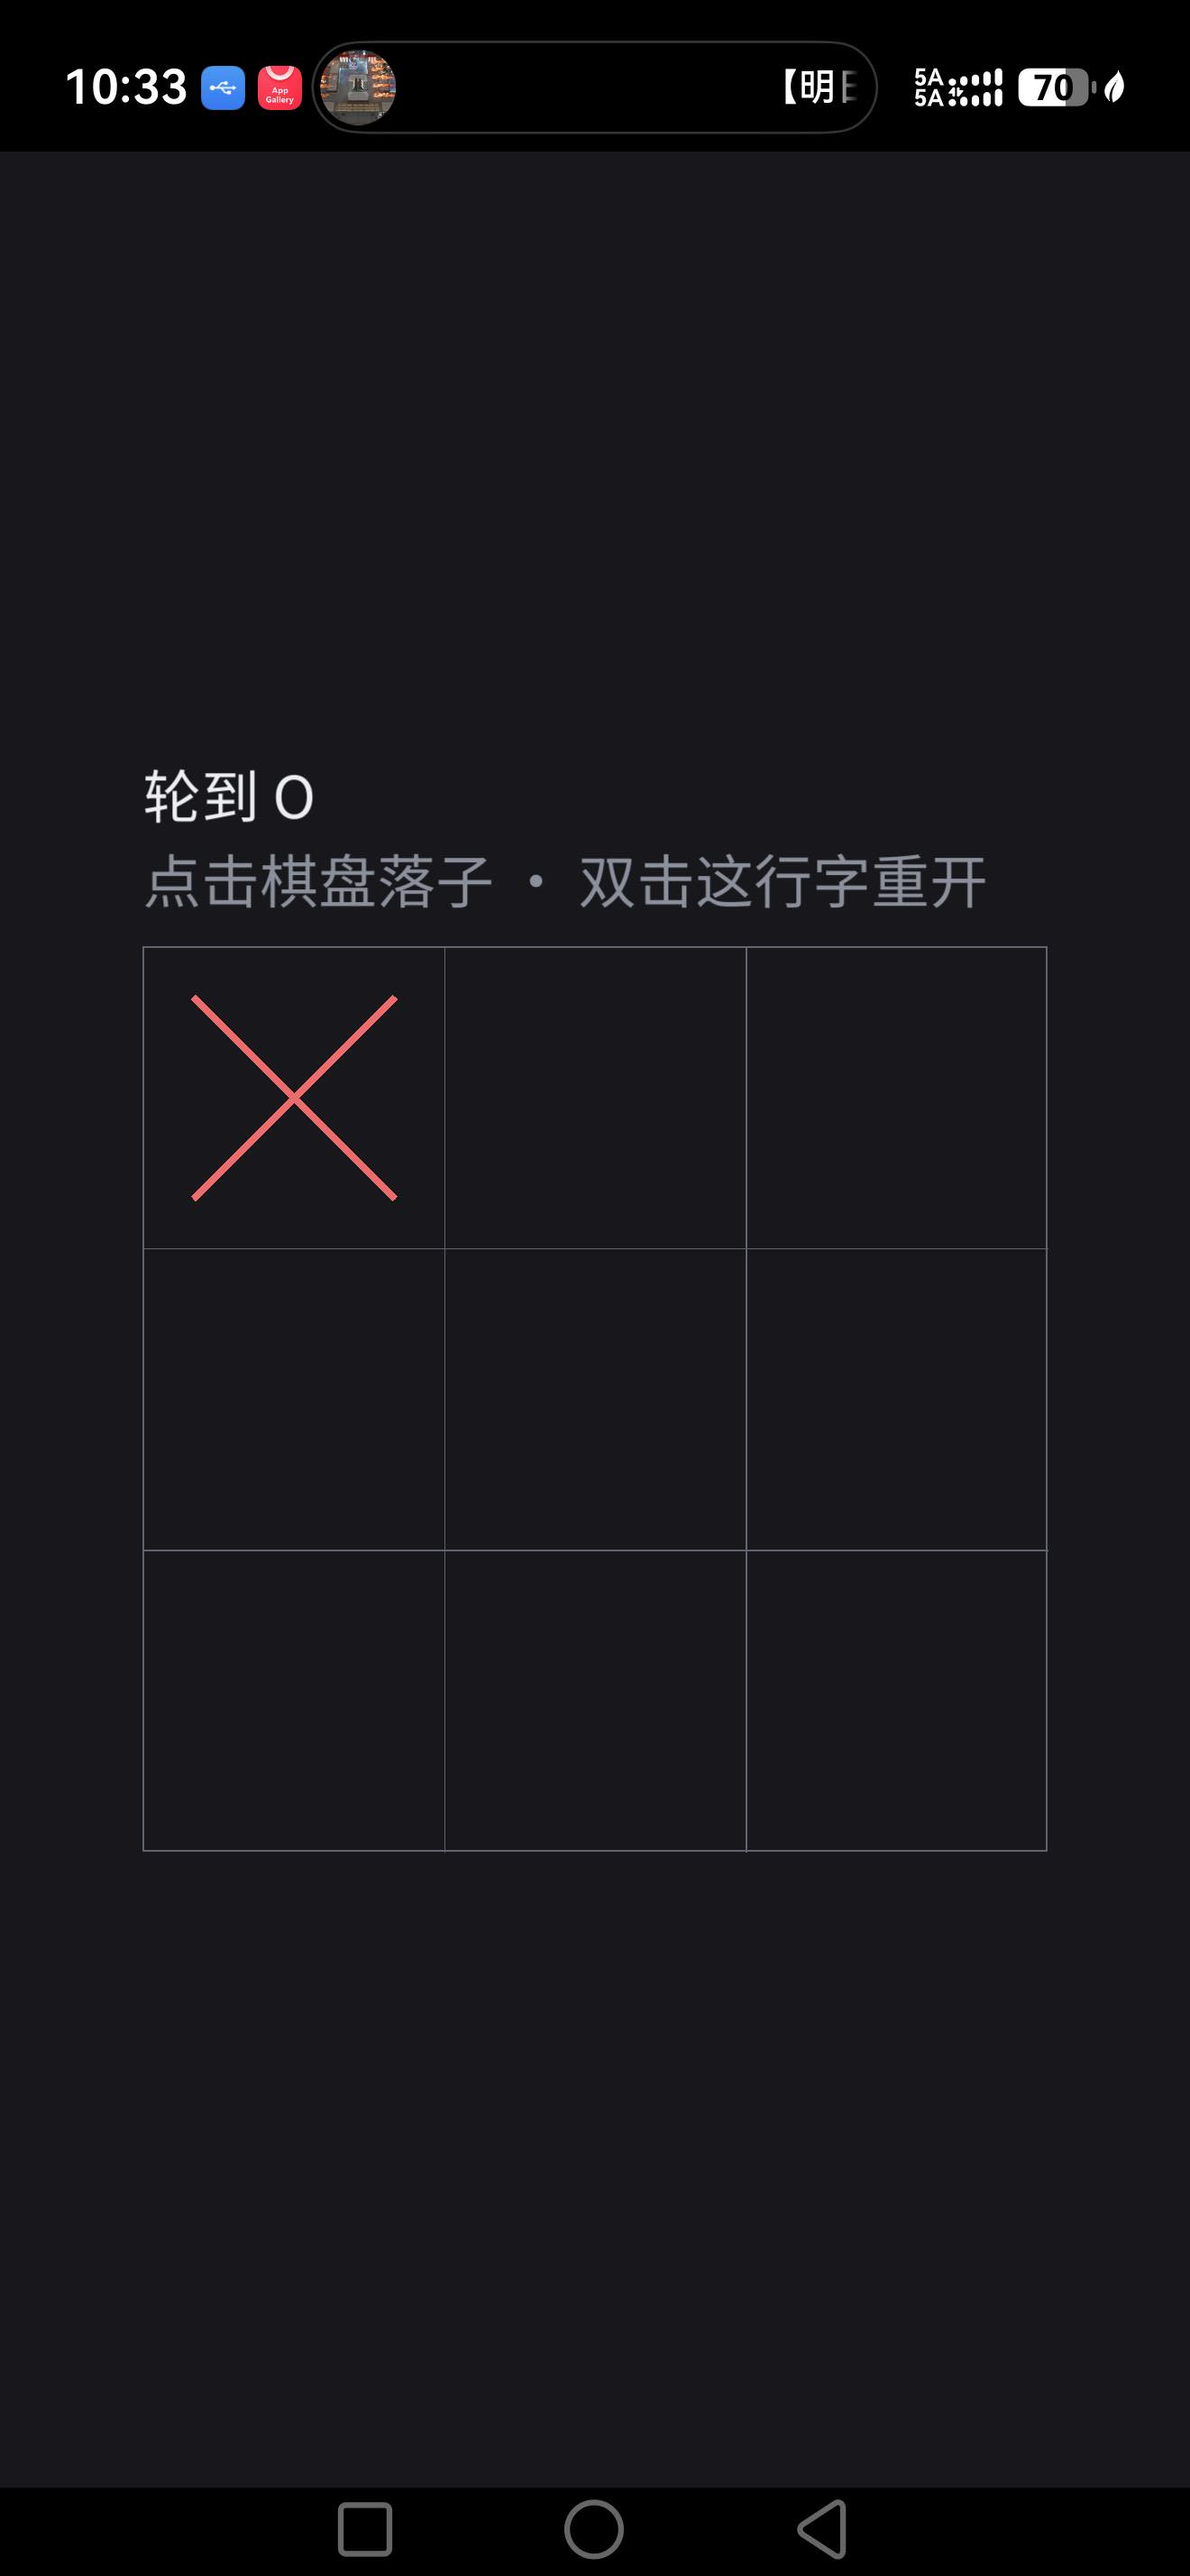
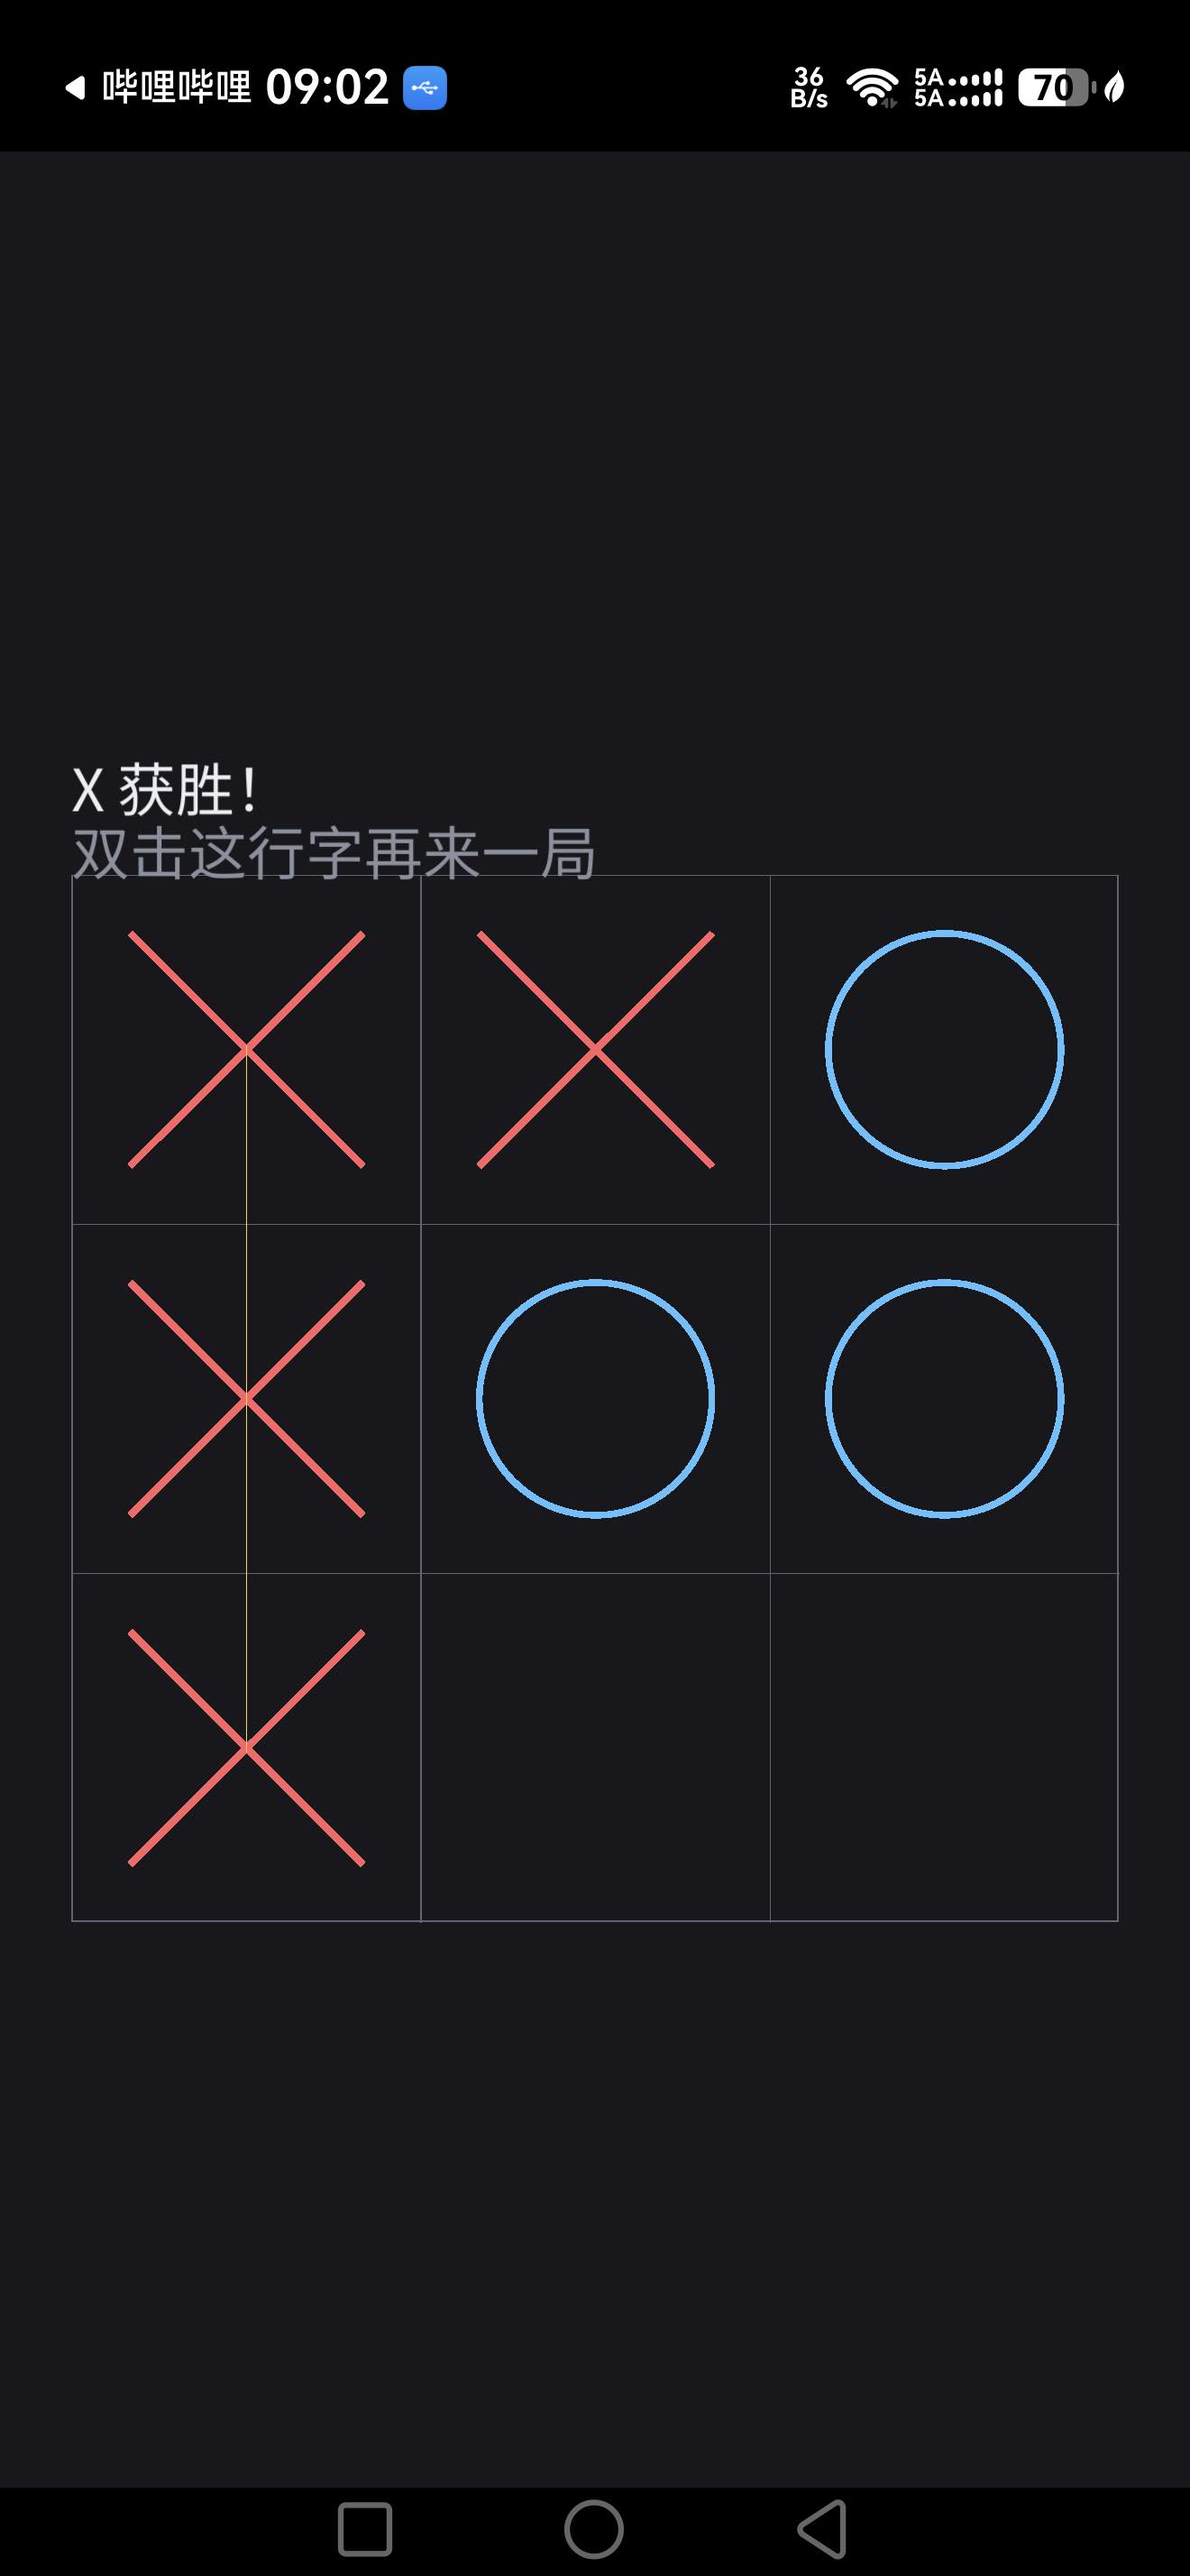
docs(ohos): 用最新构建重新取证，确认与 iOS 布局一致
- 设备上重新安装最新签名包（临时恢复签名材料后构建，用完已还原）
- 实测：逻辑=900x1765，棋盘 792@(54,546)，HUD 行距 48 / 提示到棋盘 51
- 与 iPhone（逻辑=900x1956，棋盘 792@(54,673)）数值完全一致
- 替换 docs/images/ohos-real-device.png 为最新截图
- 布局规范文档补充「旧截图属于改造前构建」的说明

diff --git a/docs/布局规范.md b/docs/布局规范.md
@@ -70,11 +70,13 @@ Android / iOS / HarmonyOS / 桌面   共用同一份 app.cpp
 
 ## 五、截图与文档的时效性
 
-`docs/images/ohos-*.png` 是 **2026-11-04** 的截图，早于本次布局统一改造：
-当时 HUD 用旧公式定位（行距会随屏幕高度漂移），所以与当前 iOS/桌面的
-紧凑行距看起来不同。**这是构建版本差异，不是平台差异。**
+`docs/images/ohos-real-device.png` 已更新为 **2026-11-05** 的最新构建
+（`逻辑=900x1765，棋盘 792@(54,546)`），与 iOS 使用同一套 HUD 定位，
+行距 48、提示到棋盘 51 —— 与 iPhone 的 `逻辑=900x1956，棋盘 792@(54,673)`
+数值完全一致（board.y 不同仅因画布高度不同、整组居中）。
 
-设备重新上线后应重新取证并替换这些图片。
+更早的截图（2026-11-04，`ohos-precheck-api26.png` 等）属于预检阶段或改造前构建，
+保留作历史取证，不再代表当前行为。
 
 ---
 
